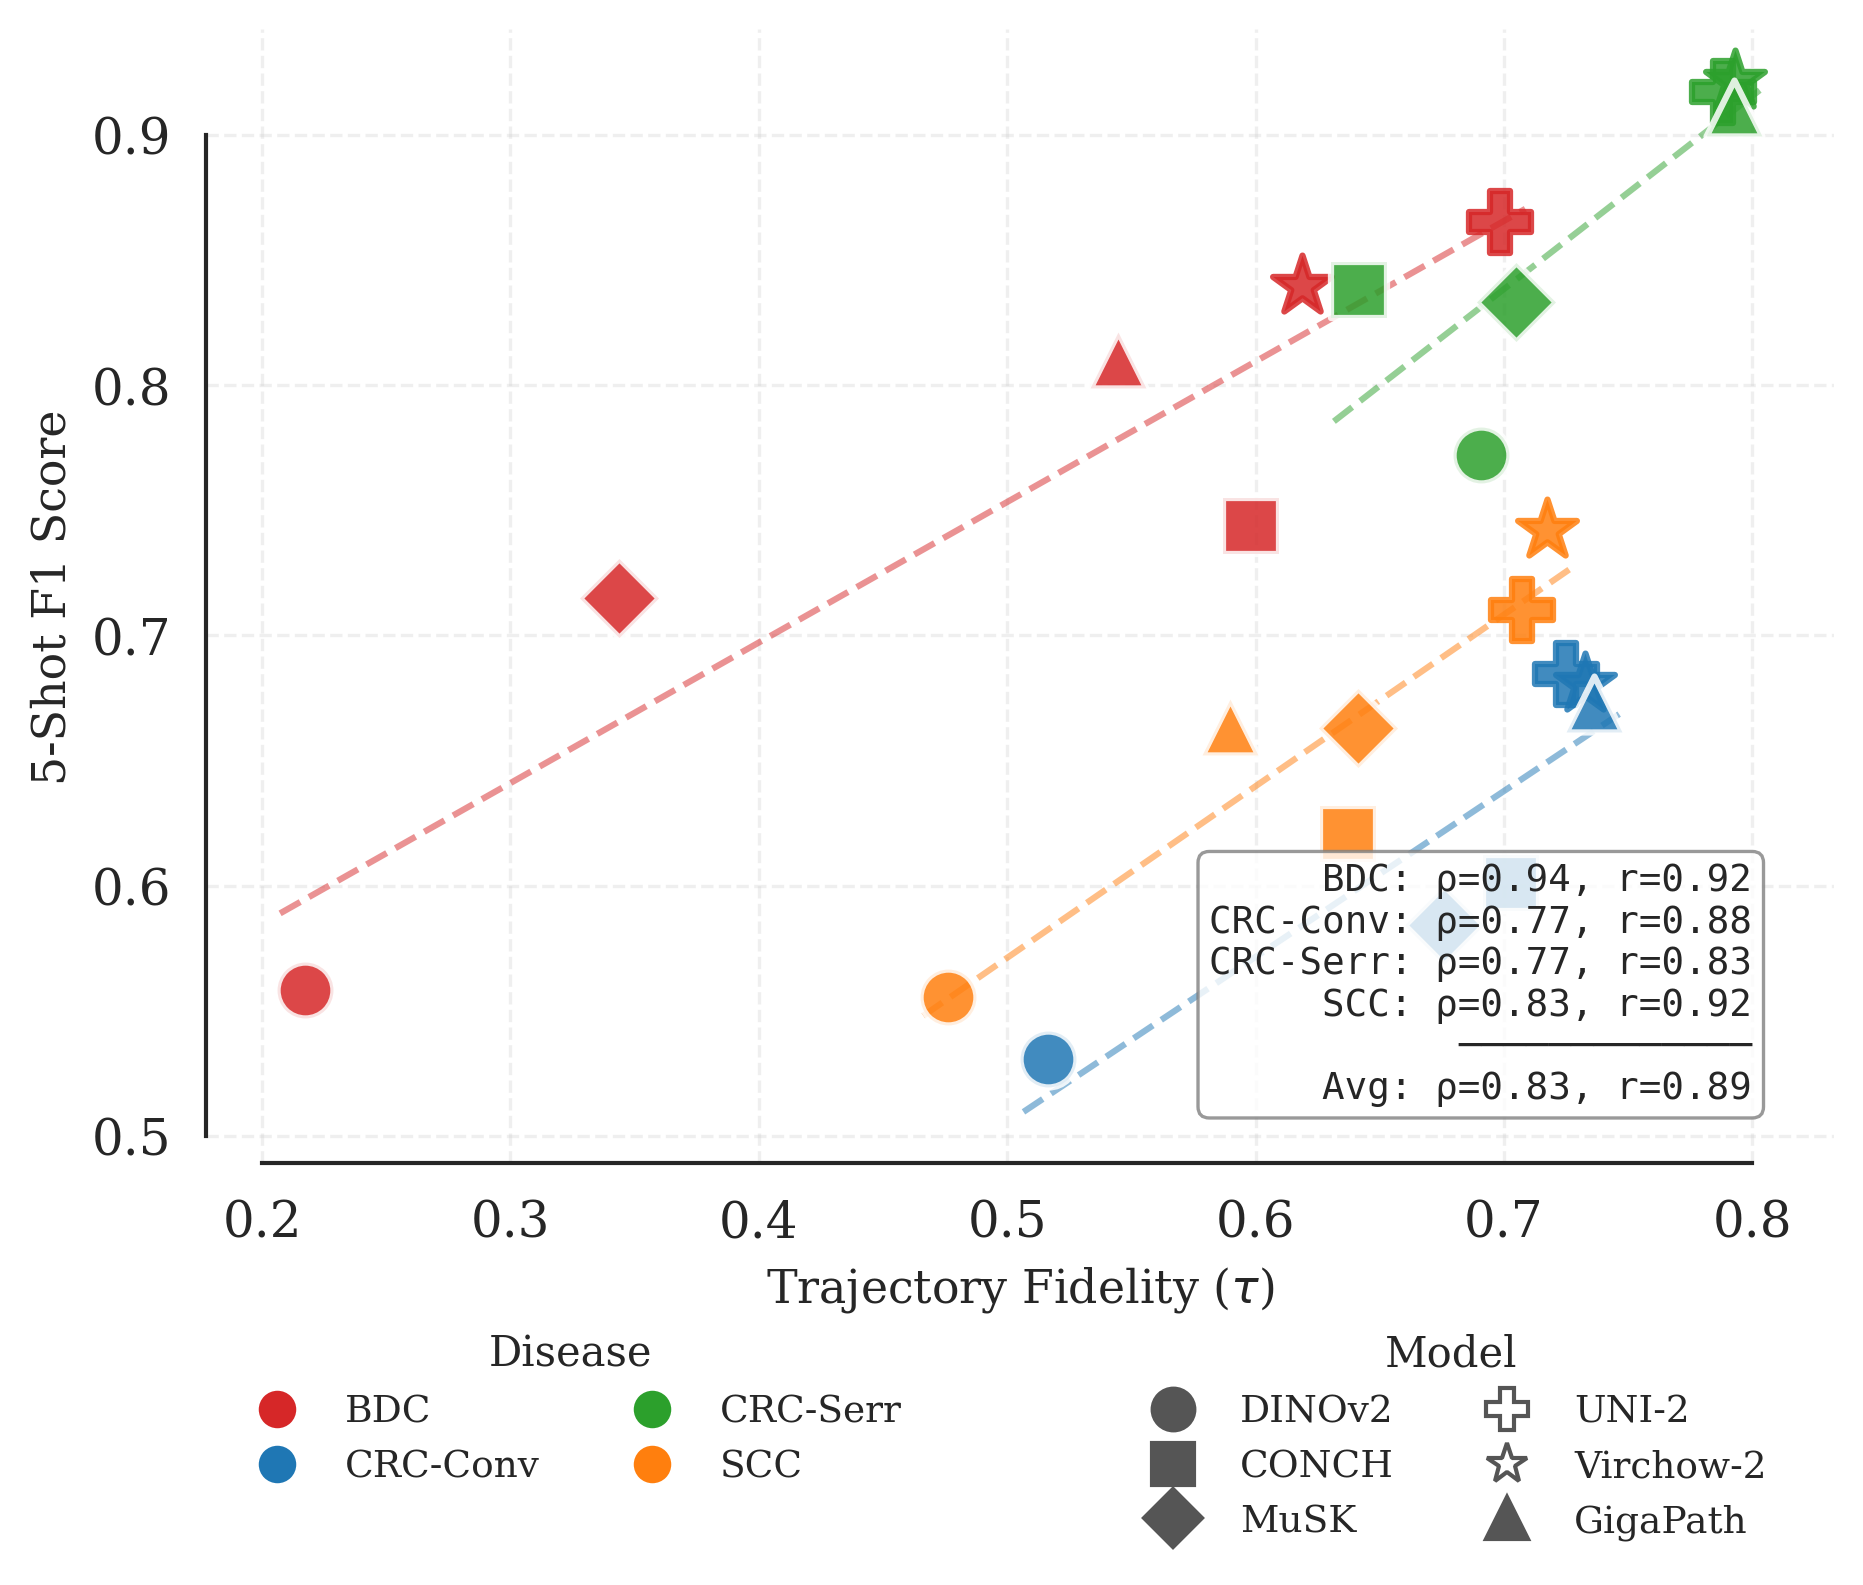
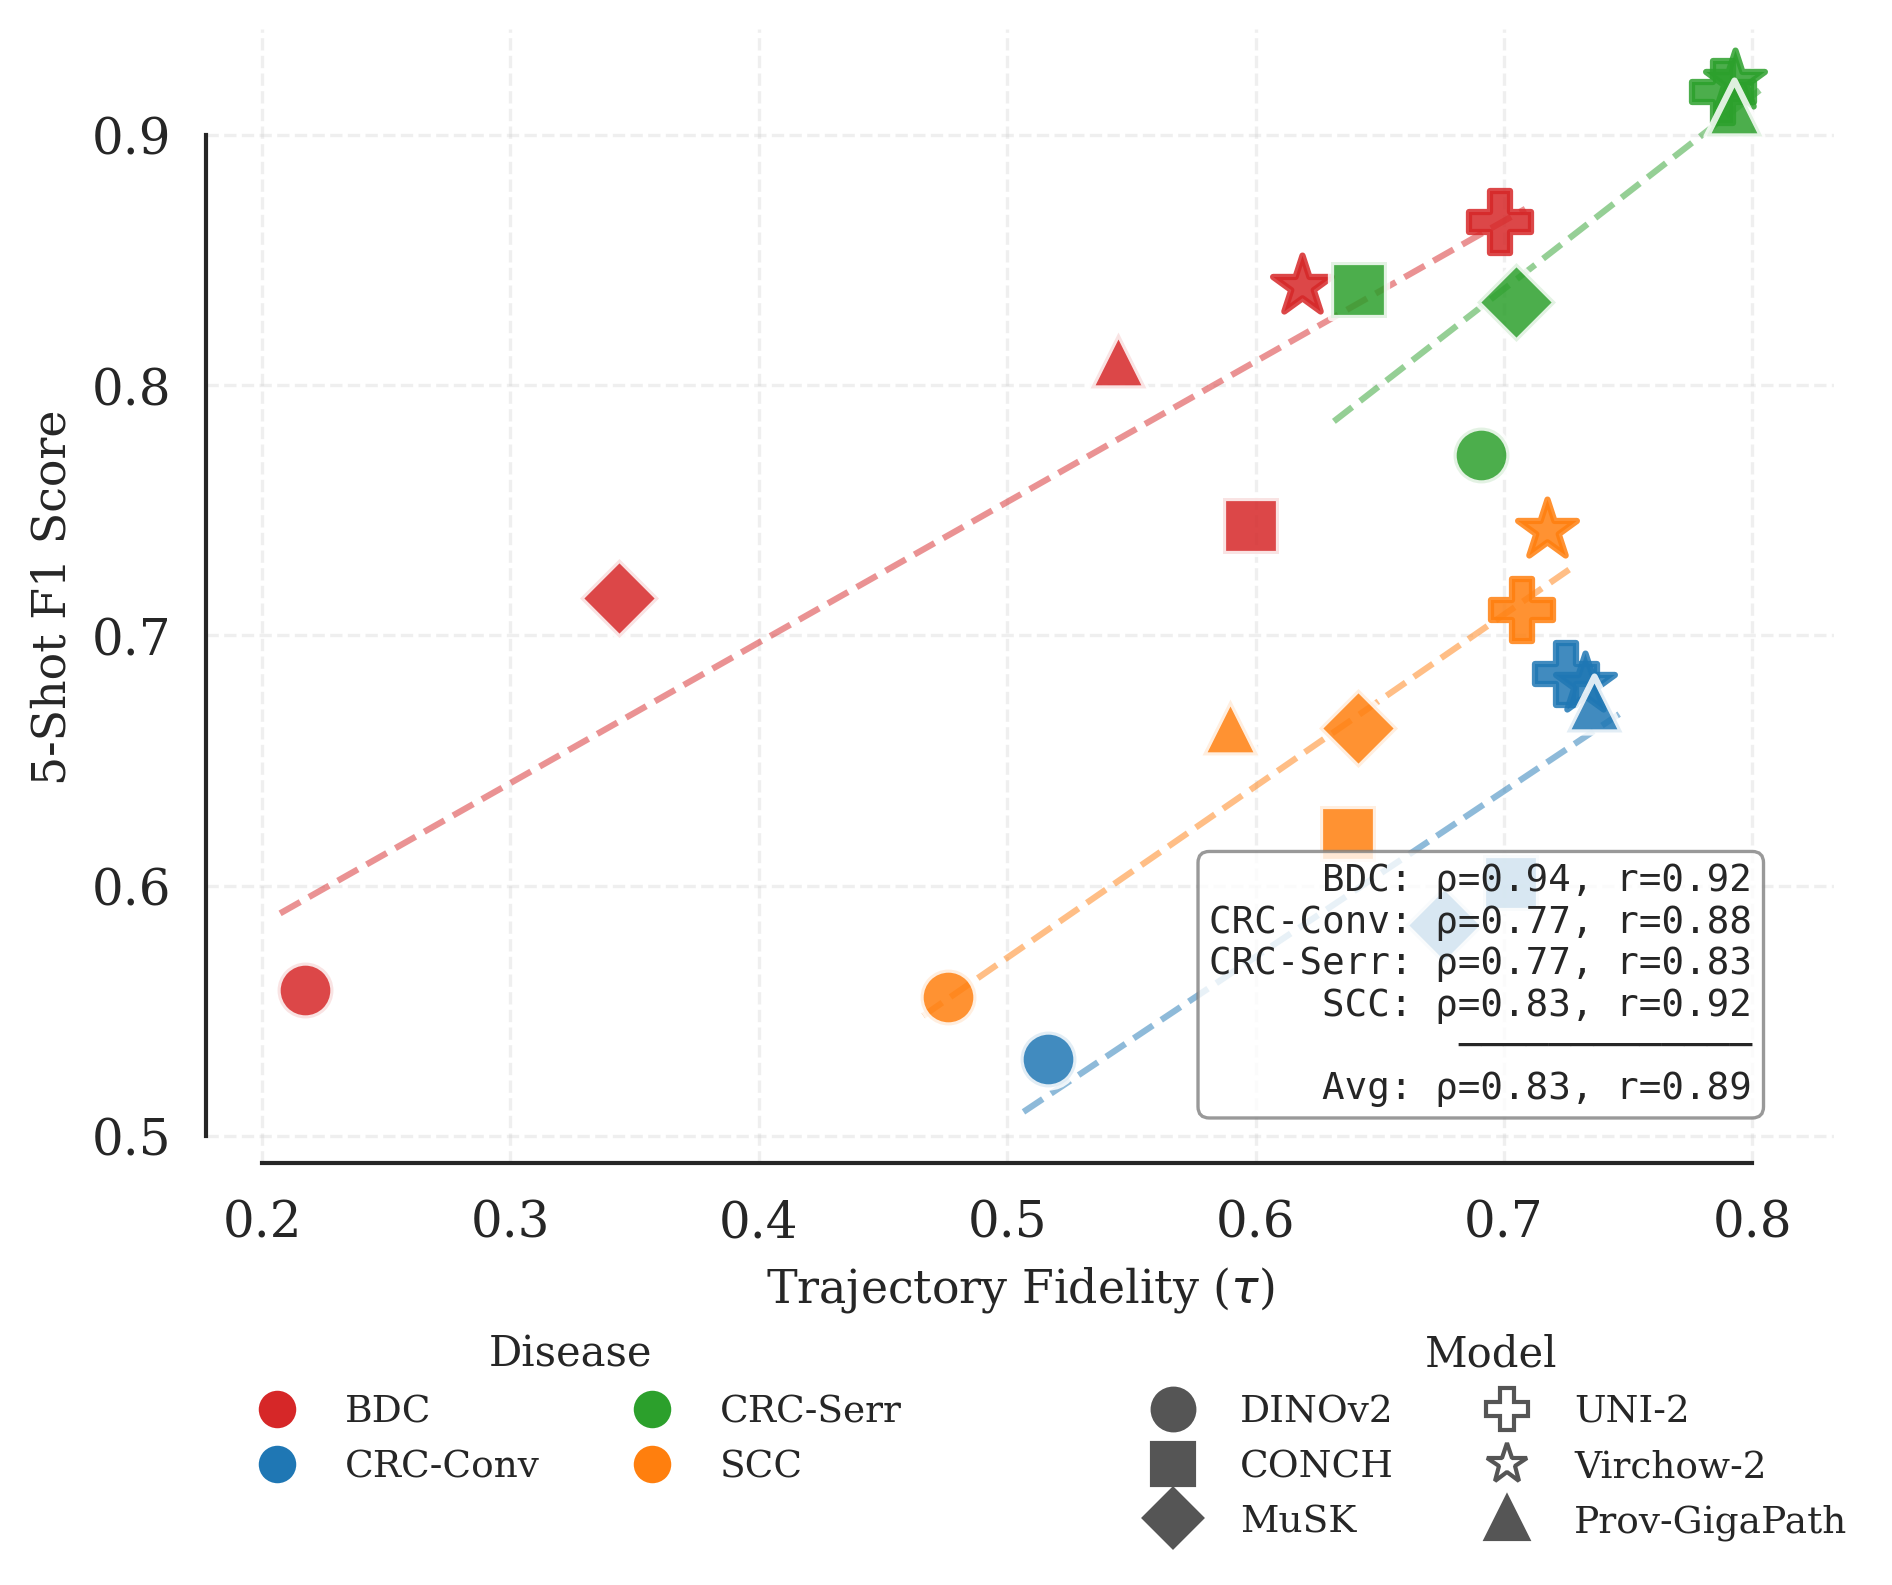
Rename GigaPath to Prov-GigaPath, add CLS layer analysis, and export trajectory fidelity CSV
- Rename 'GigaPath' to 'Prov-GigaPath' in model labels (plot_config.py)
- Add CLS token stacked figure generation in plot_layer_analysis.py
- Handle Prov-GigaPath label line-wrapping in permutation plot x-axis
- Add save_results_csv() to plot_trajectory_fidelity.py to export per-model
  trajectory fidelity scores with confidence intervals
- Remove obsolete absolute depth emergence plots
- Regenerate all figures with updated labels

diff --git a/analyze_embeddings/plotting/plot_trajectory_fidelity.py b/analyze_embeddings/plotting/plot_trajectory_fidelity.py
@@ -58,8 +58,33 @@ def load_and_prep_data():
 
     return df_real, df_null
 
+def save_results_csv(df_real, df_null, output_dir):
+    """Save a CSV with model name, progression name, and trajectory fidelity (tau)."""
+    real_subset = df_real[["model", "progression", "tau", "lower", "upper"]].copy()
+    
+    if not df_null.empty:
+        null_subset = df_null[["model", "progression", "tau", "lower", "upper"]].copy()
+        combined = pd.concat([real_subset, null_subset], ignore_index=True)
+    else:
+        combined = real_subset
+    
+    combined = combined.rename(columns={
+        "tau": "trajectory_fidelity",
+        "lower": "ci_lower",
+        "upper": "ci_upper"
+    })
+    
+    combined = combined.sort_values(["model", "progression"]).reset_index(drop=True)
+    
+    output_subdir = output_dir / "trajectory_fidelity"
+    output_subdir.mkdir(parents=True, exist_ok=True)
+    csv_path = output_subdir / "model_progression_trajectory_fidelity.csv"
+    combined.to_csv(csv_path, index=False)
+    print(f"✅ CSV saved to {csv_path}")
+
 def main():
     df_real, df_null = load_and_prep_data()
+    save_results_csv(df_real, df_null, OUTPUT_DIR)
     
     # 1. Setup Figure
     fig, ax = plt.subplots(figsize=(15, 6)) 

diff --git a/analyze_embeddings/plotting/plot_layer_analysis.py b/analyze_embeddings/plotting/plot_layer_analysis.py
@@ -326,6 +326,18 @@ if __name__ == "__main__":
     
     print("Generating main text figure (stacked, patch_mean)...")
     plot_main_figure(df_patch, token_type='patch_mean')
+
+    # ==========================================================================
+    # MAIN TEXT: CLS token stacked figure 
+    # ==========================================================================
+    print("\n=== CLS Token Analysis (Main Text) ===")
+    df_cls = load_and_process_data(INPUT_FILE, token_type='cls')
+
+    if df_cls['abs_layer'].isnull().any():
+        print("Warning: Some rows could not map depth % to absolute layer. Check LAYER_MAPPING.")
+
+    print("Generating main text figure (stacked, cls)...")
+    plot_main_figure(df_cls, token_type='cls')
     
     # ==========================================================================
     # APPENDIX: Three-panel figures for all token types

diff --git a/analyze_embeddings/plotting/plot_permutation_results.py b/analyze_embeddings/plotting/plot_permutation_results.py
@@ -111,6 +111,7 @@ def plot_specificity_grid():
             
         if i >= (rows - 1) * cols:
             labels = [pcfg.MODEL_LABELS.get(m, m) for m in pcfg.MODEL_ORDER]
+            labels = [l.replace('Prov-GigaPath', 'Prov-\nGigaPath') if 'Prov-GigaPath' in l else l for l in labels]
             ax.set_xticklabels(labels, rotation=0, fontweight='bold', fontsize=10)
             ax.set_xlabel("")
         else:

diff --git a/analyze_embeddings/plotting/plot_config.py b/analyze_embeddings/plotting/plot_config.py
@@ -21,7 +21,7 @@ MODEL_LABELS = {
     'musk': 'MuSK',
     'uni2': 'UNI-2',
     'virchow2': 'Virchow-2',
-    'gigapath': 'GigaPath'
+    'gigapath': 'Prov-GigaPath'
 }
 
 MODEL_TYPE_MAPPING = {
